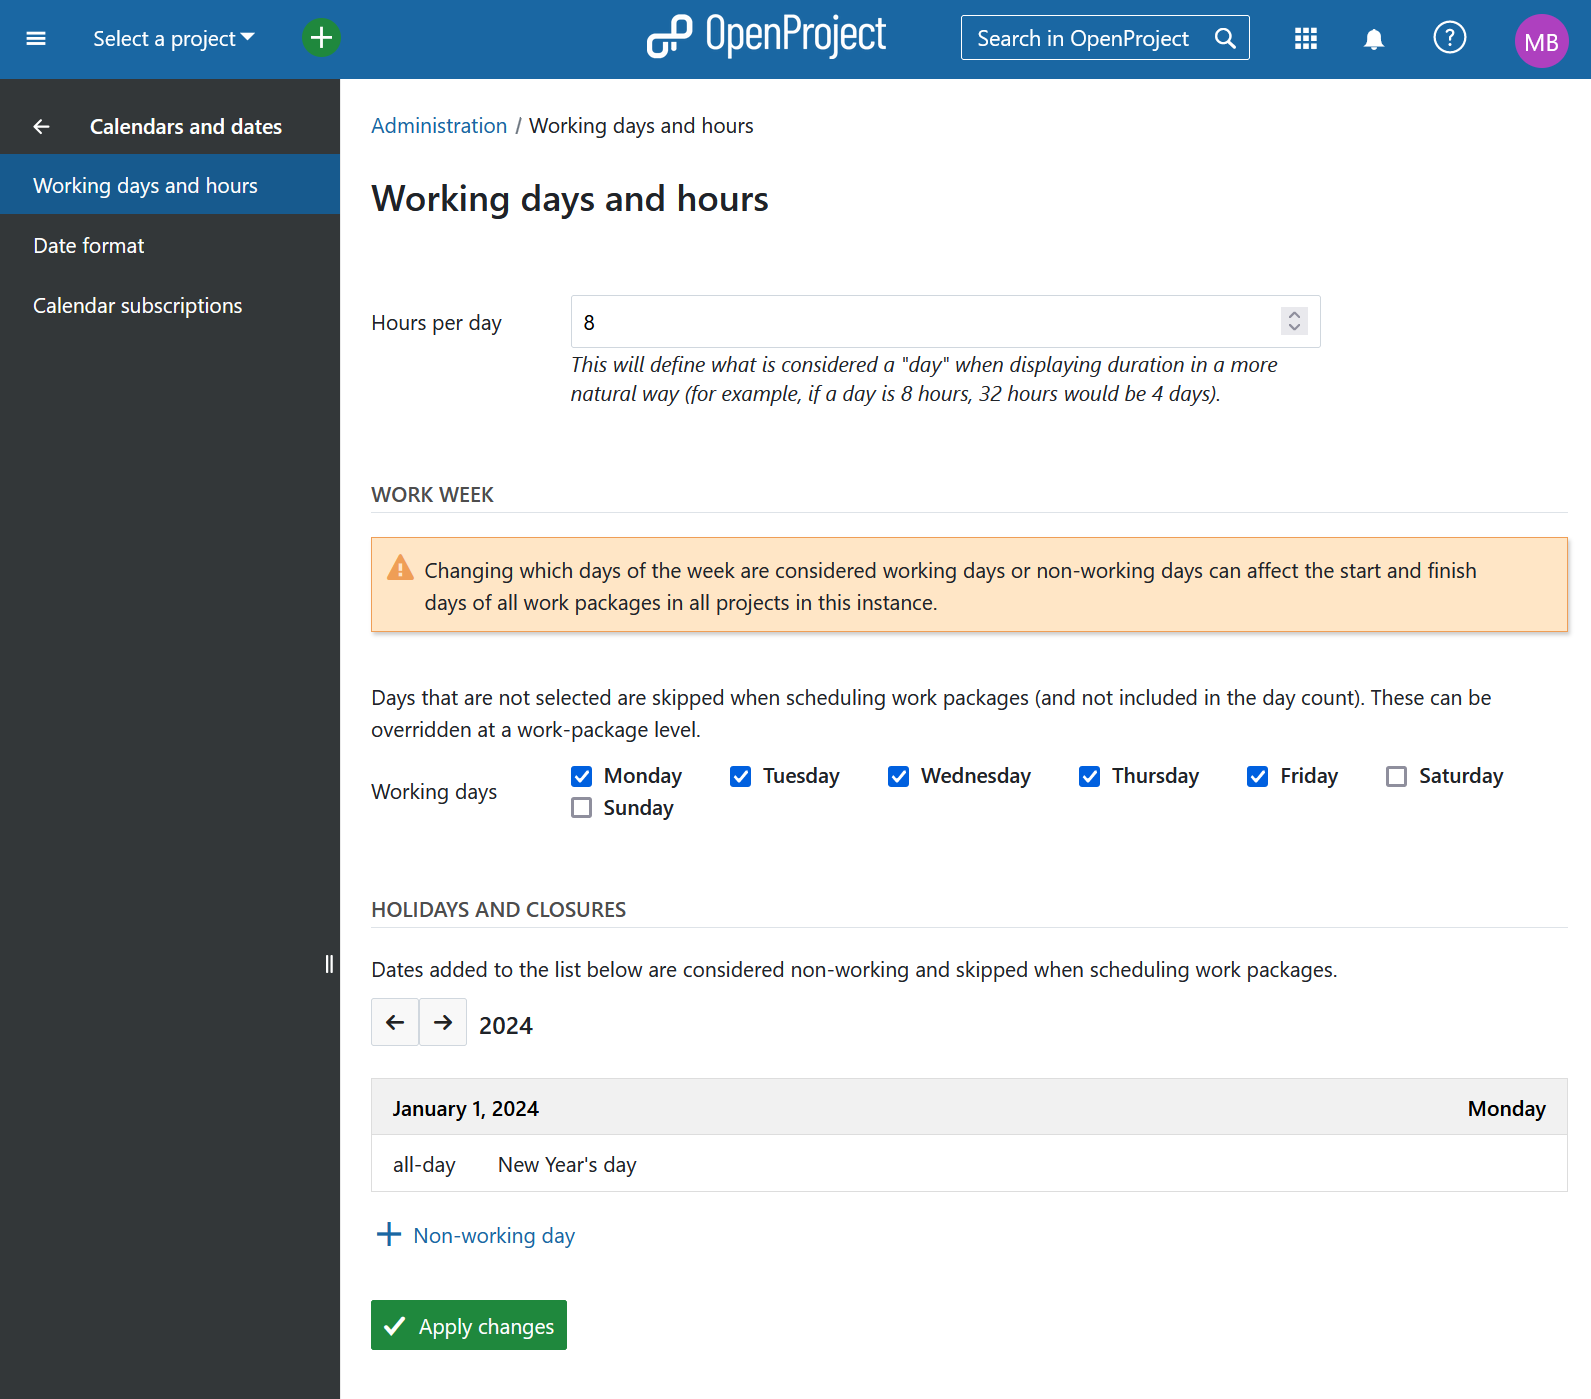
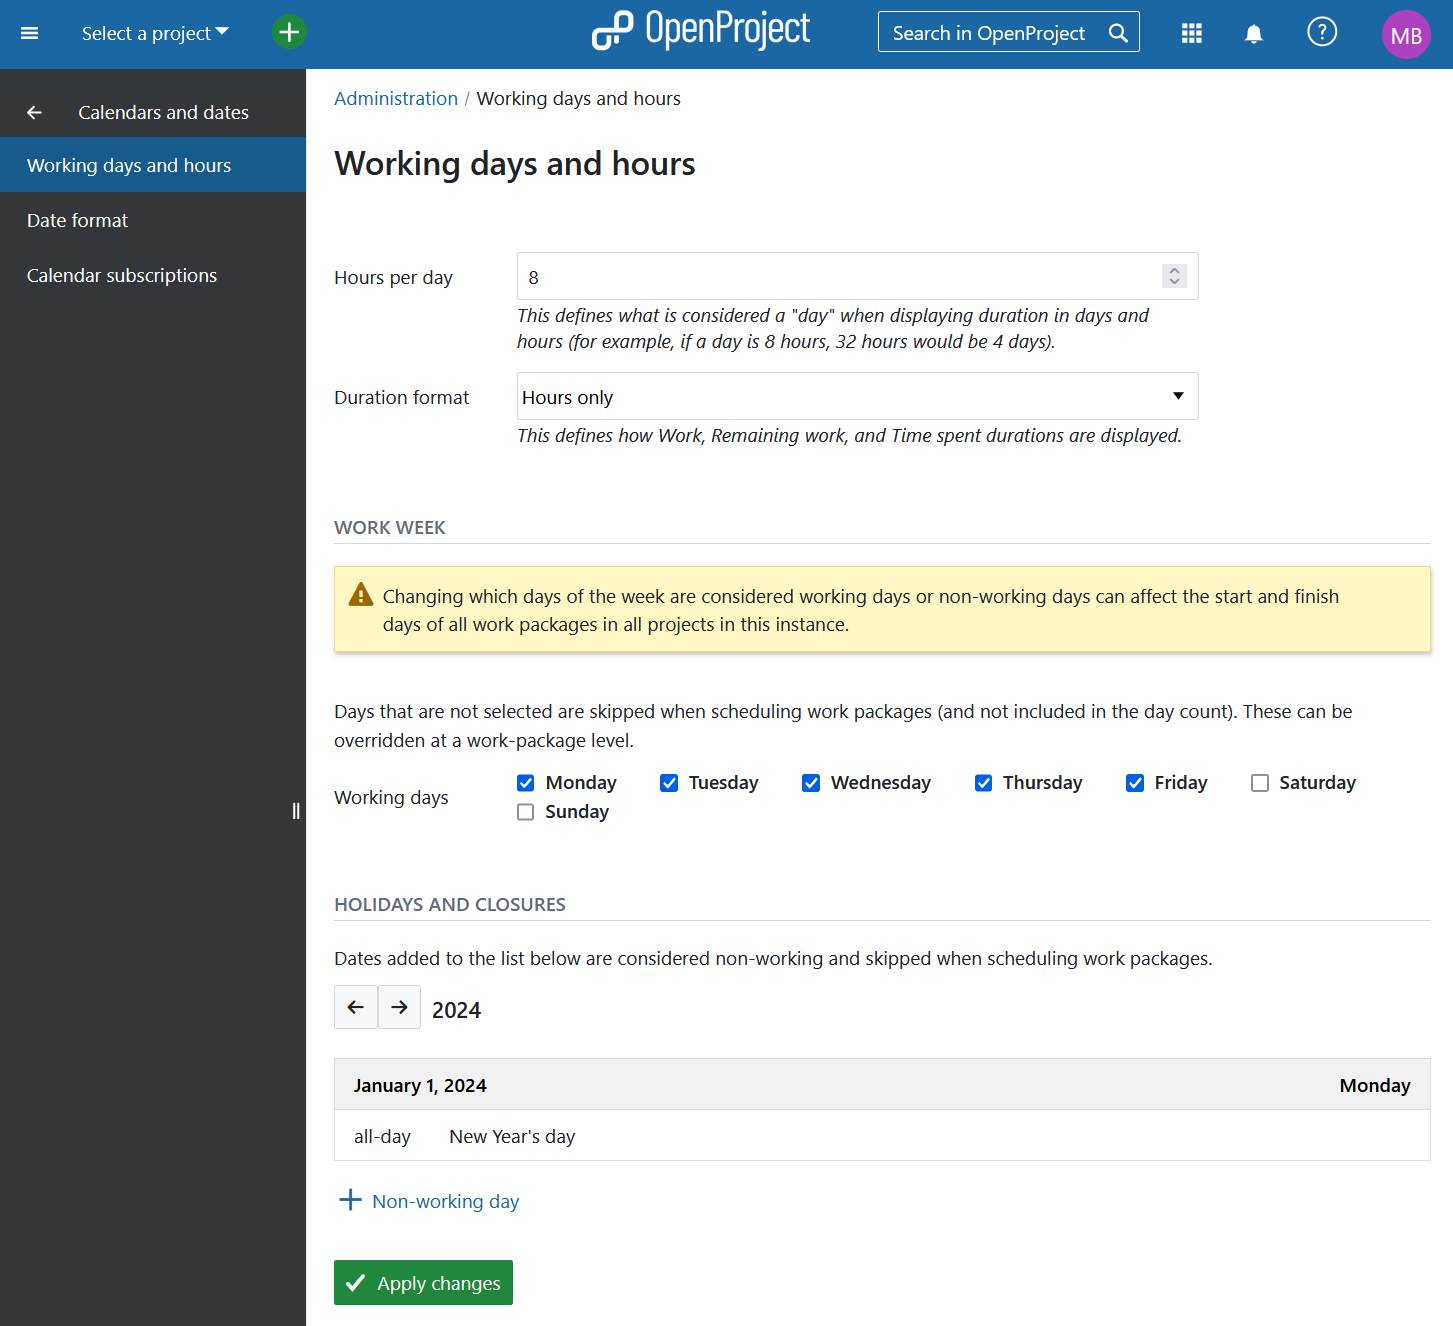
[#56164] 14.3 Documentation: Allow admins to choose between display in hours-only or days and hours  https://community.openproject.org/work_packages/56164
[#56164] 14.3 Documentation: Allow admins to choose between display in hours-only or days and hours

https://community.openproject.org/work_packages/56164

diff --git a/docs/system-admin-guide/calendars-and-dates/README.md b/docs/system-admin-guide/calendars-and-dates/README.md
@@ -19,13 +19,15 @@ Navigate to **Administration → Calendar and dates**.
 
 ## Working days and hours
 
-Administrators are able to define how many hours are considered a day and which days of the week are considered working days at an instance level. In other words, this setting defines what OpenProject should consider to be a normal work week when scheduling work packages.
+Administrators are able to define how many hours are considered a day and which days of the week are considered working days at an instance level. In other words, this setting defines what OpenProject should consider to be a normal work week when scheduling work packages. 
 
 To change this setting, navigate to **Working days** inside of the **Calendar and dates** settings.
 
 > **Note:** By default, a working day is considered to have 8 hours, the five days from Monday–Friday are considered working days, and Saturday and Sunday are considered non-working days.
 
-![The 'Working days' entry in Calendar and dates settings ](admin-working-days-hours.png)
+Here the **duration format** can also be set for *Work, Remaining work and Time spent* fields. The options include **hours only** and **days and hours**. The default setting is *hours only*.
+
+ ![The 'Working days' entry in Calendar and dates settings ](admin-working-days-hours.png)
 
 To change this setting, unselect days that you would like to define as non-working, and select ones that you would like to consider working, and click on **Save**.
 

diff --git a/docs/user-guide/time-and-costs/progress-tracking/README.md b/docs/user-guide/time-and-costs/progress-tracking/README.md
@@ -26,7 +26,9 @@ OpenProject lets you track and monitor the progress of your work packages.
 
 ## Units of measurement
 
-[OpenProject 14.2](../../../release-notes/14-2-0/) transformed the measurement units of Work and Remaining Work from hours to **days and hours**. This allows you to input values for Work and Remaining work in different units. See the examples below:
+Work and Remaining Work can be measured either in **hours** or **days and hours** (this needs to be set by your administrator). 
+
+You can input values for Work and Remaining work in different units. See the examples below:
 
 - Valid inputs for 2 hours and 30 minutes:
 
@@ -42,7 +44,7 @@ OpenProject lets you track and monitor the progress of your work packages.
   - "6d 0h"
   - "6 days"
 
-The default setting is set to be 8 hours per day. Your administrator can change [how many hours are considered a day](../../../system-admin-guide/calendars-and-dates/#working-days-and-hours).
+The default setting is set to be 8 hours per day. Your administrator can change [how many hours are considered a day and select the duration format](../../../system-admin-guide/calendars-and-dates/#working-days-and-hours).
 
 ## Progress reporting modes
 
